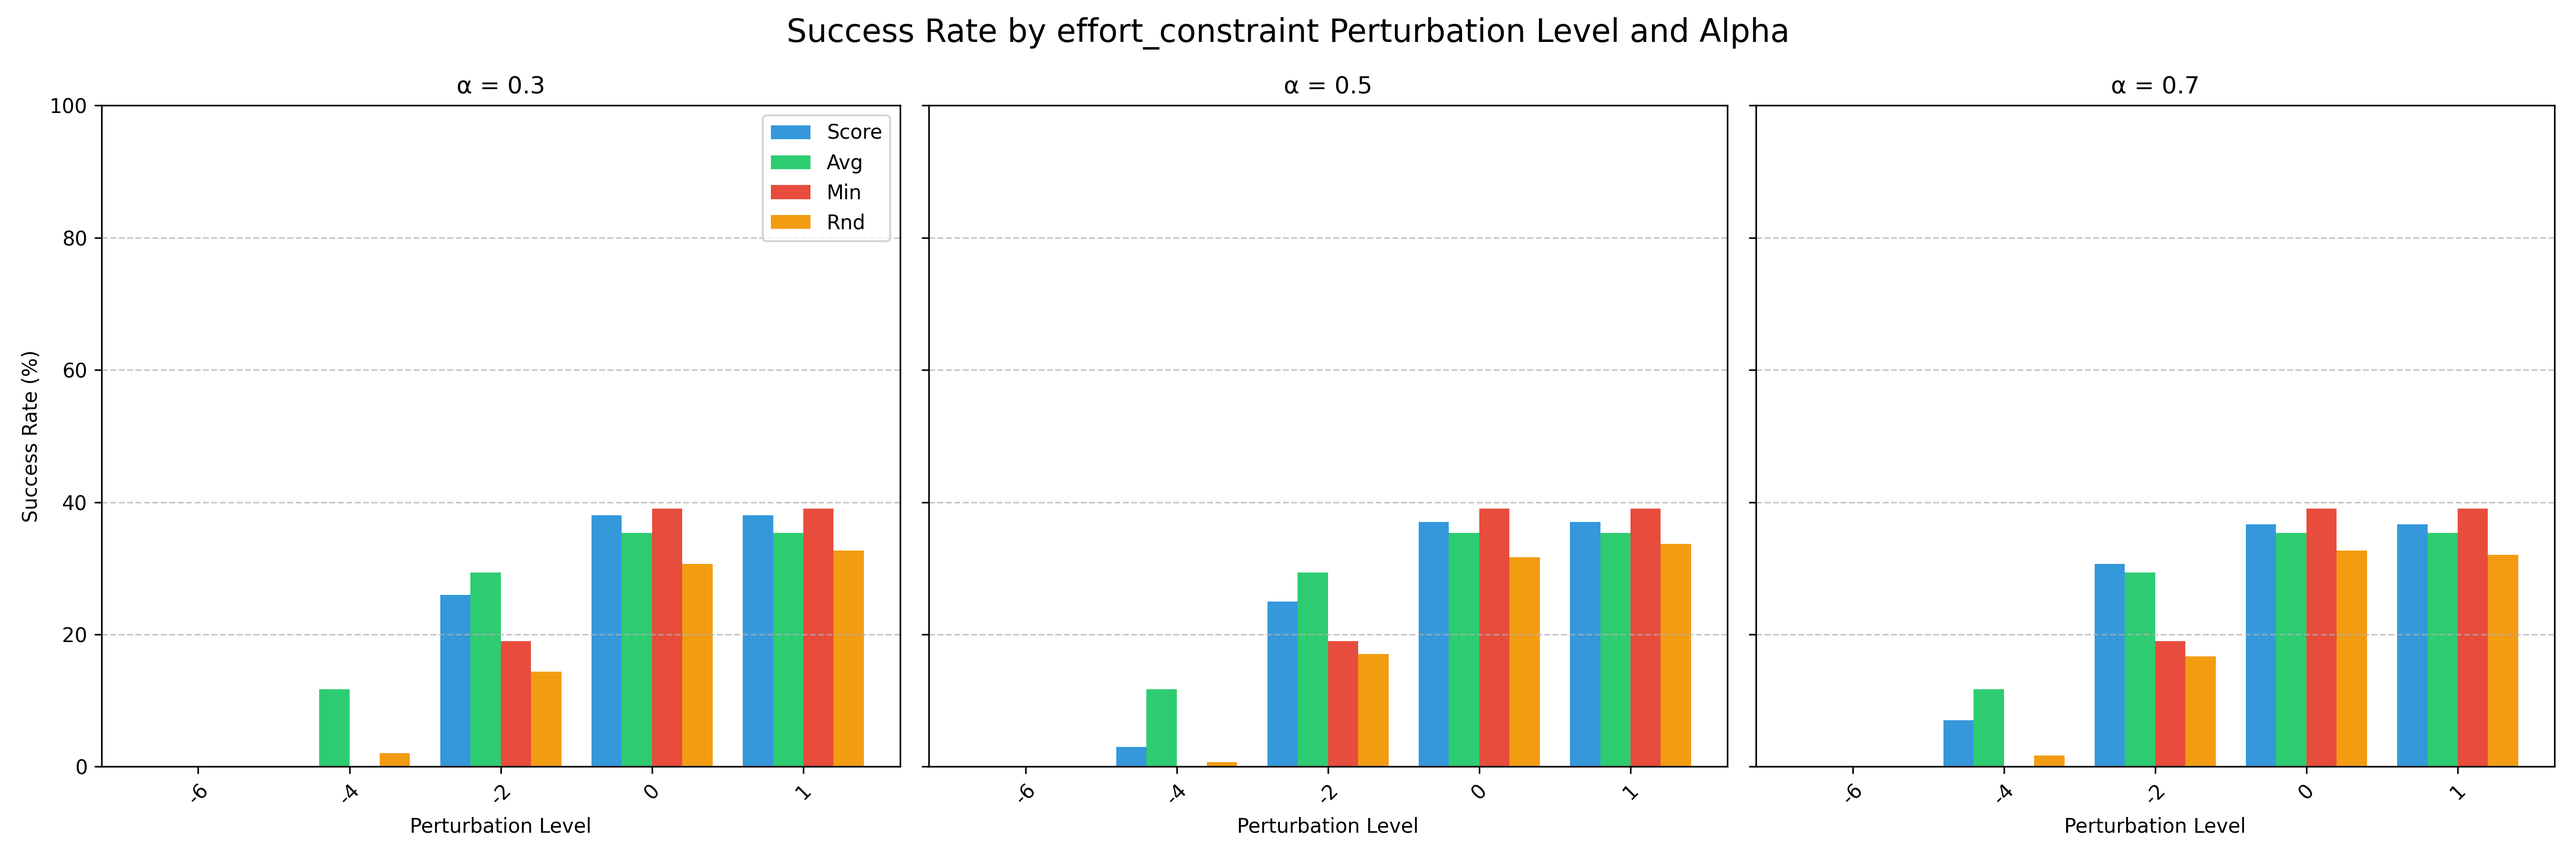
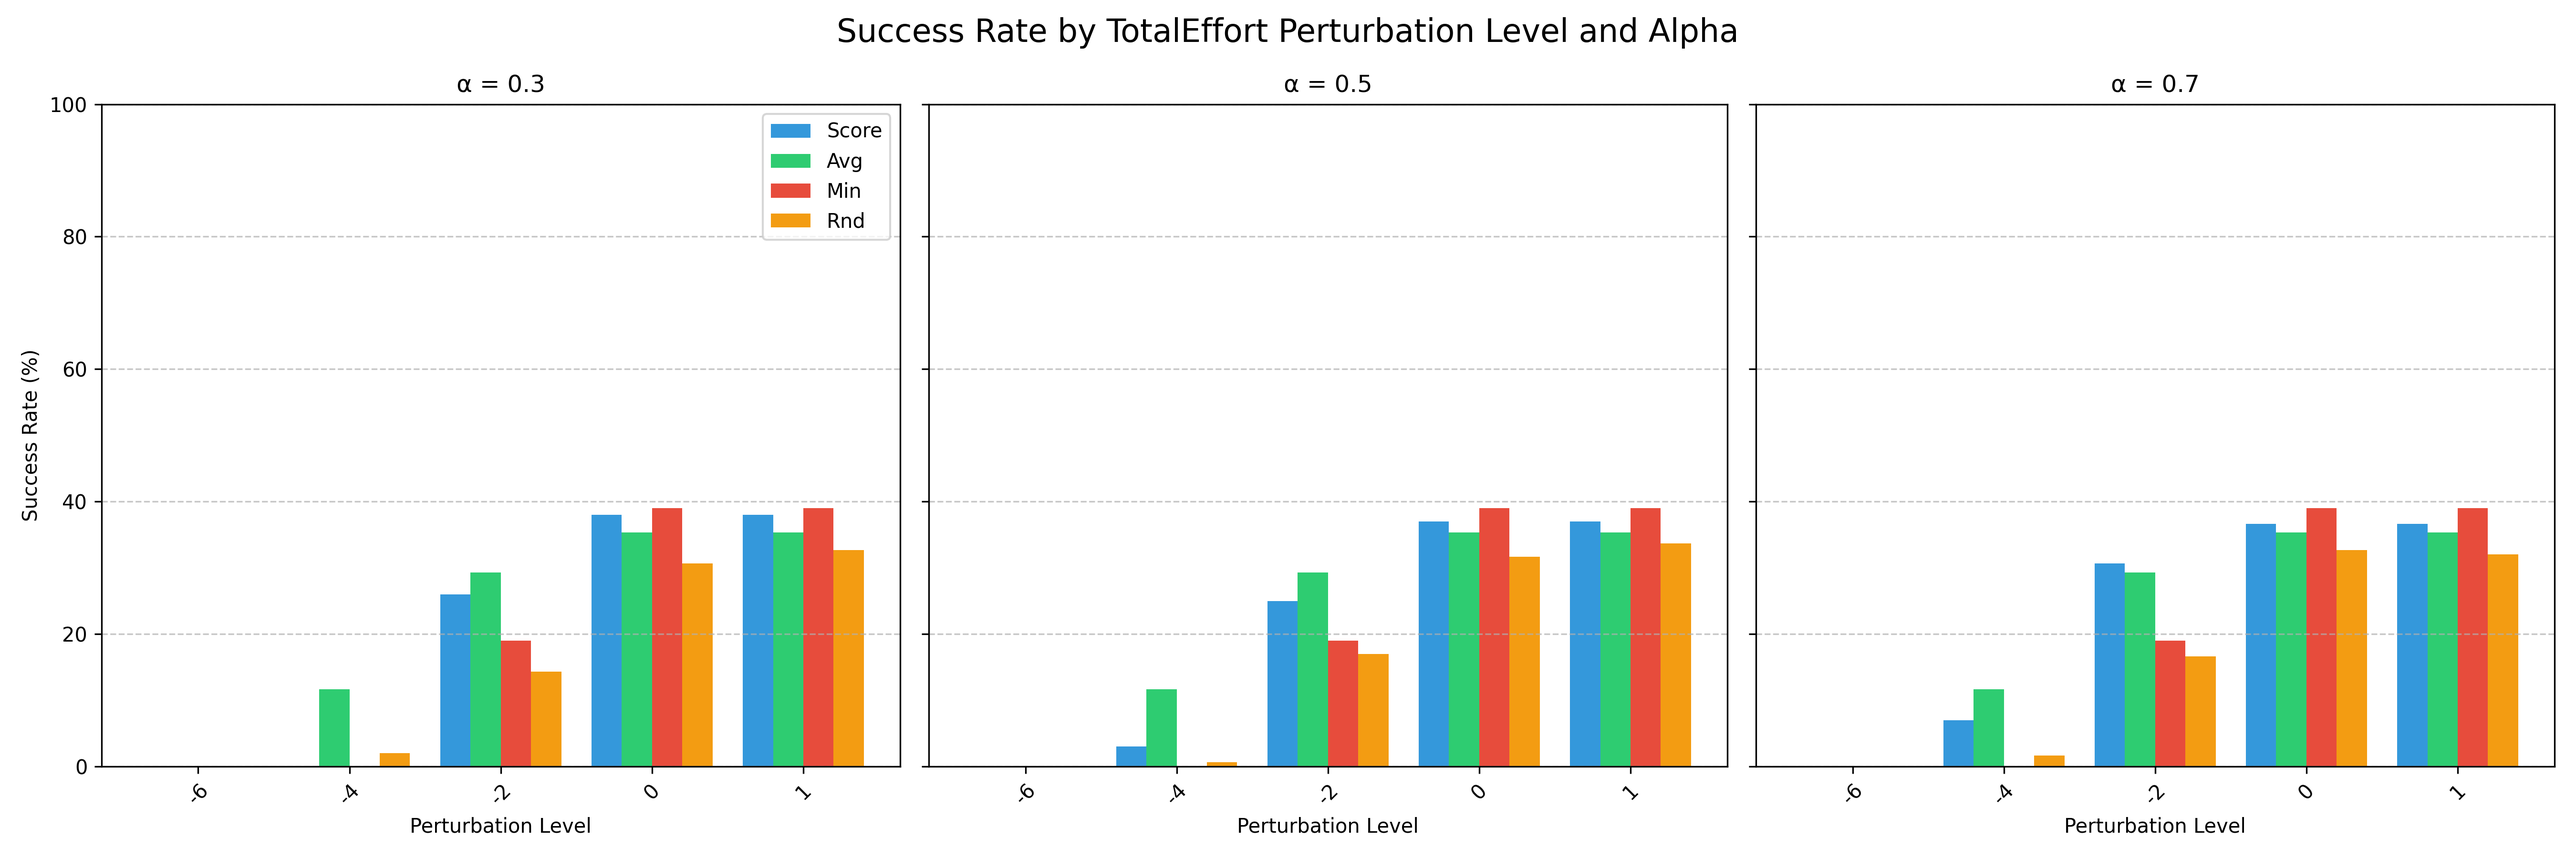
refixed

diff --git a/exp1_analyzer.py b/exp1_analyzer.py
@@ -247,7 +247,7 @@ def analyze_by_perturbation_level_with_alfas(df):
 
     return results
 
-def create_perturbation_alpha_charts(df, output_dir, config):
+def create_perturbation_alpha_charts(df, output_dir, domain_var_display_names):
     """
     Create charts showing Score strategy performance by alpha for each perturbation level.
 
@@ -263,15 +263,6 @@ def create_perturbation_alpha_charts(df, output_dir, config):
 
     # Get perturbation columns
     perturbation_cols = [col for col in df.columns if col.endswith("_perturbation")]
-
-    # Create a domain variable to display name mapping
-    domain_var_display_names = {}
-    for qg in config["quality_goals"]:
-        domain_var = qg["domain_variable"]
-        # Extract a nice display name (remove _constraint suffix and capitalize)
-        display_name = domain_var.replace("_constraint", "").capitalize()
-        domain_var_display_names[domain_var] = display_name
-
 
     # For each perturbation type
     for pert_col in perturbation_cols:
@@ -468,7 +459,7 @@ def create_score_alpha_comparison_chart(data, output_dir):
     plt.savefig(os.path.join(output_dir, 'score_alpha_vs_others.png'), dpi=300)
     print("Saved score_alpha_vs_others.png")
 
-def create_perturbation_alpha_allin_charts(df, output_dir, config):
+def create_perturbation_alpha_allin_charts(df, output_dir, domain_var_display_names):
     """
     Create charts showing Score strategy with all alpha values and other strategies
     for each perturbation level, all in the same chart.
@@ -485,15 +476,6 @@ def create_perturbation_alpha_allin_charts(df, output_dir, config):
 
     # Get perturbation columns
     perturbation_cols = [col for col in df.columns if col.endswith("_perturbation")]
-
-    # Create a domain variable to display name mapping
-    domain_var_display_names = {}
-    for qg in config["quality_goals"]:
-        domain_var = qg["domain_variable"]
-        # Extract a nice display name (remove _constraint suffix and capitalize)
-        display_name = domain_var.replace("_constraint", "").capitalize()
-        domain_var_display_names[domain_var] = display_name
-
 
     # For each perturbation type
     for pert_col in perturbation_cols:
@@ -635,7 +617,7 @@ def analyze_by_alpha(df):
         print(f"    Score vs Min: {score_success - min_success:+.2f}%")
         print(f"    Score vs Rnd: {score_success - rnd_success:+.2f}%")
 
-def create_visualizations(df, output_dir,config):
+def create_visualizations(df, output_dir,domain_var_display_names):
     """
     Create visualizations to analyze the data.
 
@@ -644,14 +626,6 @@ def create_visualizations(df, output_dir,config):
         output_dir (str): Directory where to save the visualizations
     """
     print("\n===== CREATING VISUALIZATIONS =====")
-
-    # Create a domain variable to display name mapping
-    domain_var_display_names = {}
-    for qg in config["quality_goals"]:
-        domain_var = qg["domain_variable"]
-        # Extract a nice display name (remove _constraint suffix and capitalize)
-        display_name = domain_var.replace("_constraint", "").capitalize()
-        domain_var_display_names[domain_var] = display_name
 
     # Create output directory if it doesn't exist
     os.makedirs(output_dir, exist_ok=True)
@@ -1012,6 +986,13 @@ def analyze_results(config_file):
         print("No data to analyze. Exiting.")
         return None
 
+    # Create a domain variable to display name mapping
+    domain_var_display_names = {}
+    for qg in config["quality_goals"]:
+        column_name = qg["column_name"]  # Nome della colonna nel CSV (es. "cost_constraint")
+        display_name = qg["domain_variable"]  # Nome logico (es. "TotalCost")
+        domain_var_display_names[column_name] = display_name
+
     # Create output directory if it doesn't exist
     os.makedirs(output_dir, exist_ok=True)
 
@@ -1029,10 +1010,12 @@ def analyze_results(config_file):
 
    # Create visualizations
     viz_dir = os.path.join(output_dir, "visualizations")
-    create_visualizations(df, viz_dir,config)
-    create_perturbation_alpha_charts(df, viz_dir,config)
+    create_visualizations(df, viz_dir,domain_var_display_names)
+    create_perturbation_alpha_charts(df, viz_dir,domain_var_display_names)
+    create_perturbation_alpha_allin_charts(df, viz_dir,domain_var_display_names)
+
     create_score_alpha_comparison_chart(alpha_comparison_data, viz_dir)
-    create_perturbation_alpha_allin_charts(df, viz_dir,config)
+
 
     # Generate summary report
     generate_summary_report(df, results_file)
